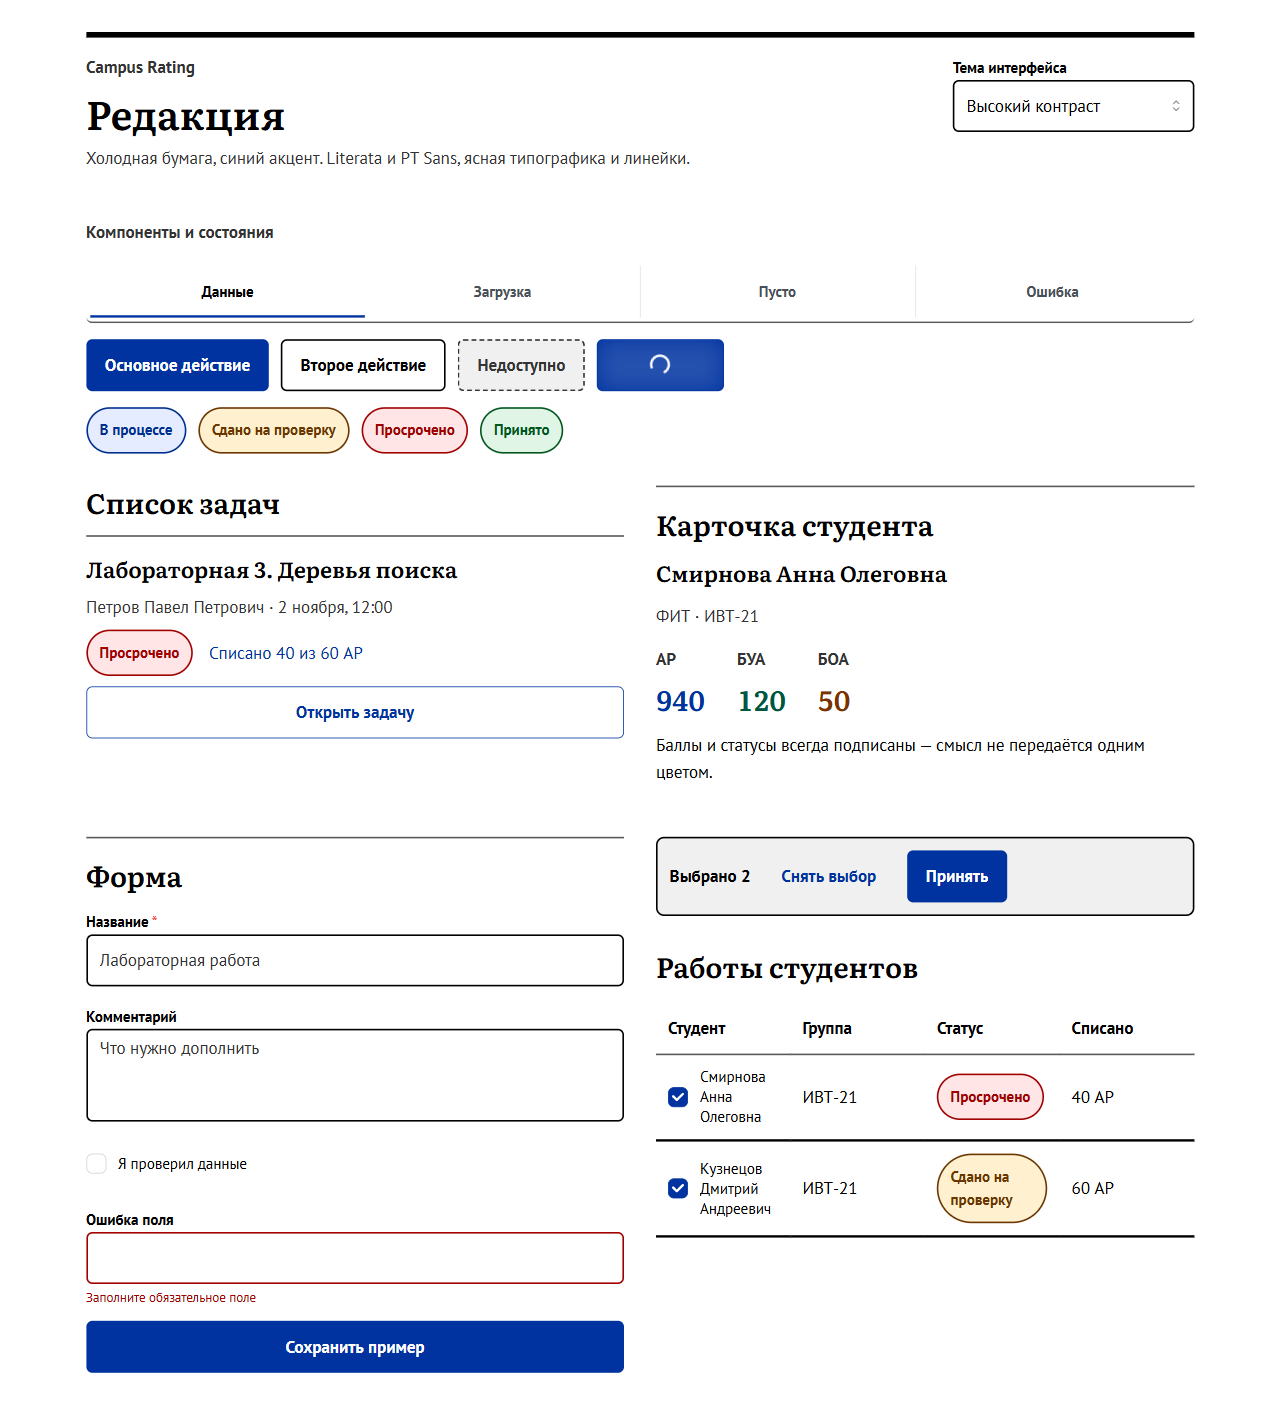
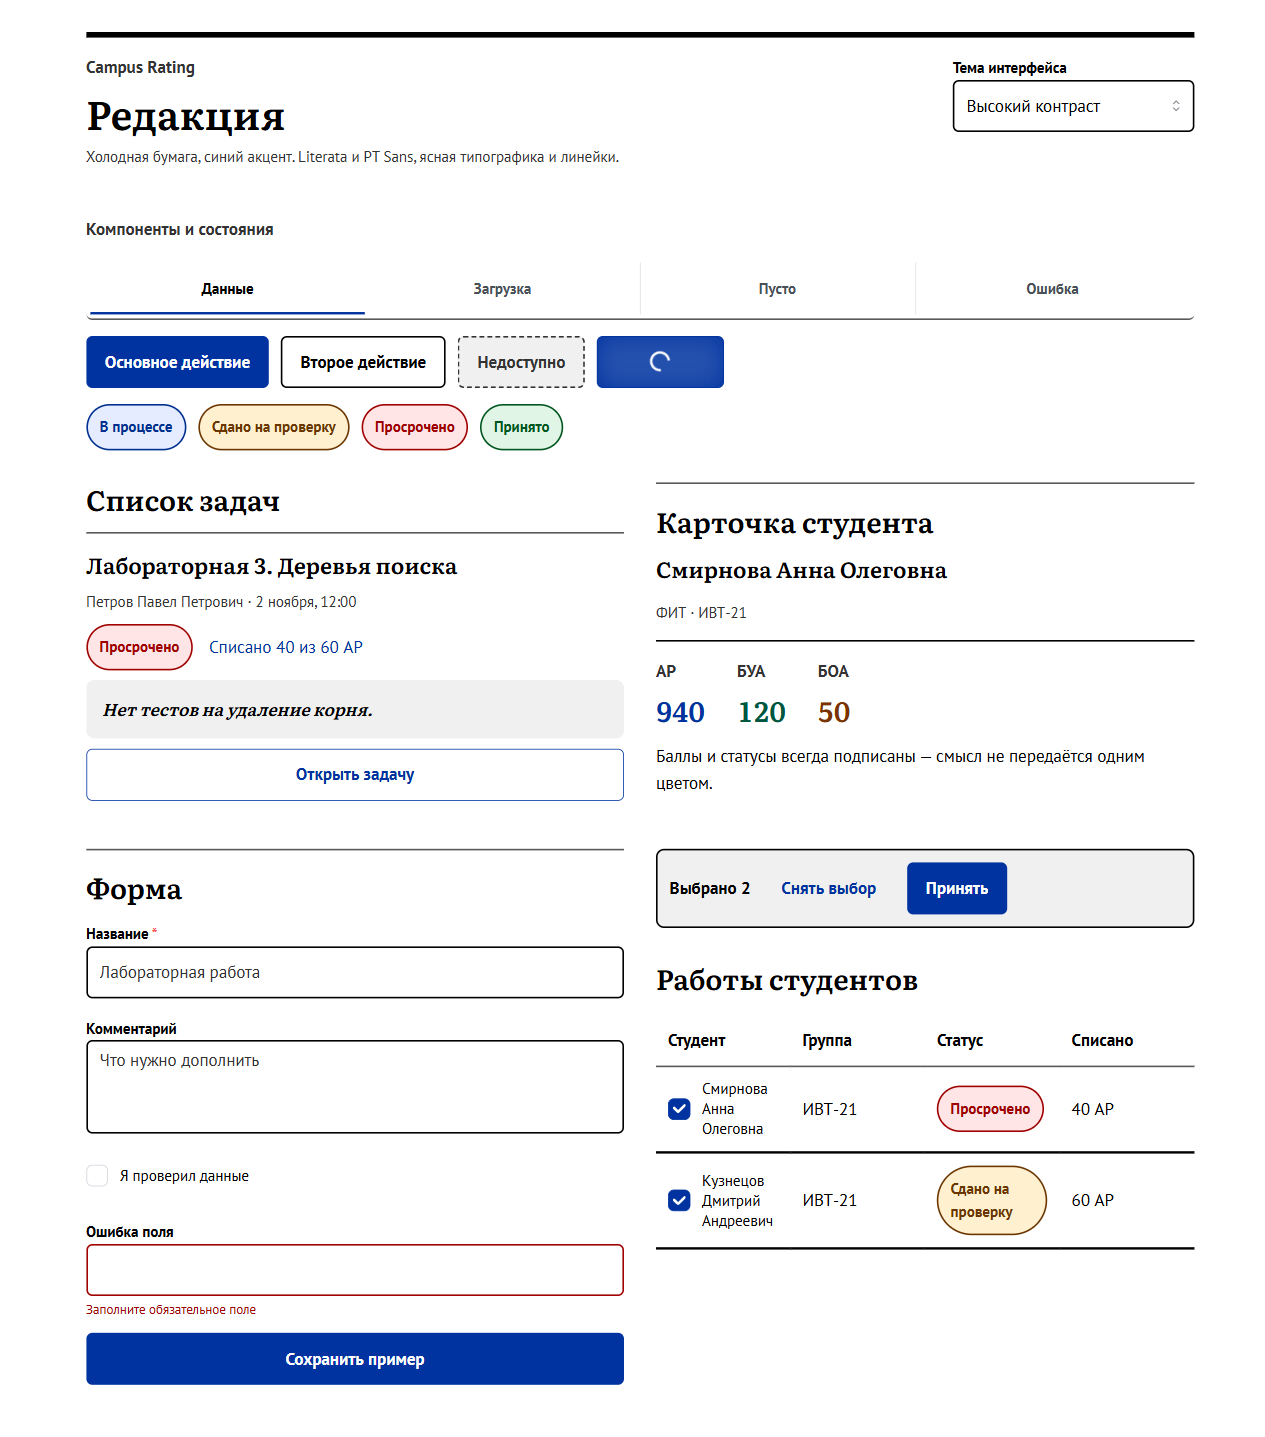
fix(frontend): align U21c dimensions with accepted ADR009
Match reference typography, checkbox and table sizes; add complete semantic tokens and return quote styling. Run real ESLint integration in Node instead of Vitest loader. Validation:4 Node+30 Vitest tests, lint/typecheck/build and browser360/1280 in three themes passed; screenshots refreshed. Refs: PR18, PR25, R40.

diff --git a/frontend/src/theme/theme.ts b/frontend/src/theme/theme.ts
@@ -5,17 +5,17 @@ const blue: MantineColorsTuple = ['#e8eefc', '#d6e2fc', '#bfd1fb', '#9bbcff', '#
 
 export const palettes = {
   light: { body: '#f5f6f8', surface: '#ffffff', text: '#161b22', muted: '#57606a', rule: '#d6dbe1', link: '#2450c4',
-    button: '#2450c4', buttonText: '#ffffff', selection: '#eef0f3', field: '#7d8590',
+    button: '#2450c4', buttonText: '#ffffff', selection: '#eef0f3', field: '#7d8590', track: '#e1e5ea', primarySoft: '#e8eefc',
     overdue: '#b42318', overdueBg: '#fdecea', accepted: '#18753c', acceptedBg: '#e6f4ea',
     submitted: '#8a4b00', submittedBg: '#fff3dc', progress: '#1d4fb8', progressBg: '#e8effc',
     ar: '#2450c4', bua: '#0b6e69', boa: '#a3480a' },
   dark: { body: '#0f1419', surface: '#161c23', text: '#e6edf3', muted: '#9da7b3', rule: '#2d3640', link: '#8fb1ff',
-    button: '#7aa2ff', buttonText: '#0b1530', selection: '#1e252e', field: '#6b7685',
+    button: '#7aa2ff', buttonText: '#0b1530', selection: '#1e252e', field: '#6b7685', track: '#2d3640', primarySoft: '#1a2540',
     overdue: '#ff9b8f', overdueBg: '#3a1d1b', accepted: '#7fd19b', acceptedBg: '#15301f',
     submitted: '#f0c27a', submittedBg: '#362a14', progress: '#a8c1ff', progressBg: '#1c2742',
     ar: '#8fb1ff', bua: '#5fd0c6', boa: '#f0a46b' },
   contrast: { body: '#ffffff', surface: '#ffffff', text: '#000000', muted: '#333333', rule: '#595959', link: '#0033a0',
-    button: '#0033a0', buttonText: '#ffffff', selection: '#f0f0f0', field: '#000000',
+    button: '#0033a0', buttonText: '#ffffff', selection: '#f0f0f0', field: '#000000', track: '#c4c4c4', primarySoft: '#e5ecff',
     overdue: '#a00000', overdueBg: '#ffe5e5', accepted: '#00561e', acceptedBg: '#e0f5e5',
     submitted: '#6b3600', submittedBg: '#fff0d0', progress: '#002f8f', progressBg: '#e5ecff',
     ar: '#0033a0', bua: '#00563f', boa: '#7a3300' },
@@ -24,6 +24,7 @@ export const palettes = {
 export const theme = createTheme({
   primaryColor: 'campus', primaryShade: 6, colors: { campus: blue },
   fontFamily: '"PT Sans", system-ui, sans-serif',
+  fontSizes: { xs: '0.6875rem', sm: '0.8125rem', md: '0.9375rem', lg: '1.0625rem', xl: '1.25rem' },
   headings: { fontFamily: '"Literata", Georgia, serif', fontWeight: '600',
     sizes: { h1: { fontSize: '2.5rem', lineHeight: '1.12' }, h2: { fontSize: '1.75rem', lineHeight: '1.2' } } },
   defaultRadius: 'sm', radius: { xs: '0.25rem', sm: '0.375rem', md: '0.5rem', lg: '0.625rem', xl: '0.75rem' },
@@ -47,16 +48,17 @@ export const theme = createTheme({
     SegmentedControl: SegmentedControl.extend({ styles: { root: { background: 'transparent', borderBottom: 'var(--cr-rule-width) solid var(--cr-rule)' },
       indicator: { background: 'transparent', boxShadow: 'none', borderBottom: '3px solid var(--cr-link)', borderRadius: 0 },
       label: { minHeight: 'var(--cr-touch-target)', display: 'flex', alignItems: 'center', justifyContent: 'center' } } }),
-    Checkbox: Checkbox.extend({ styles: { body: { minHeight: 'var(--cr-touch-target)', alignItems: 'center' },
+    Checkbox: Checkbox.extend({ vars: () => ({ root: { '--checkbox-size': 'var(--cr-checkbox-size)' } }),
+      styles: { body: { minHeight: 'var(--cr-touch-target)', alignItems: 'center' },
       label: { minHeight: 'var(--cr-touch-target)', display: 'flex', alignItems: 'center' } } }),
   },
 });
 
 function variables(p: typeof palettes.light) {
-  return { '--mantine-color-body': p.body, '--mantine-color-text': p.text,
+  return { '--mantine-color-body': p.body, '--mantine-color-text': p.text, '--cr-bg': p.body,
     '--cr-surface': p.surface, '--cr-text': p.text, '--cr-muted': p.muted, '--cr-rule': p.rule, '--cr-link': p.link,
     '--cr-button': p.button, '--cr-button-text': p.buttonText, '--cr-selection': p.selection,
-    '--cr-field': p.field,
+    '--cr-field': p.field, '--cr-track': p.track, '--cr-primary-soft': p.primarySoft,
     '--mantine-color-campus-filled': p.button, '--mantine-color-campus-filled-hover': p.button,
     '--cr-status-overdue': p.overdue, '--cr-status-overdue-bg': p.overdueBg,
     '--cr-status-accepted': p.accepted, '--cr-status-accepted-bg': p.acceptedBg,
@@ -67,12 +69,14 @@ function variables(p: typeof palettes.light) {
 
 export const cssVariablesResolver: CSSVariablesResolver = () => ({
   variables: { '--cr-touch-target': '44px', '--cr-rule-width': '1px', '--cr-motion-duration': '120ms',
-    '--cr-status-weight': '400', '--cr-status-border': '0px', '--cr-status-radius': '999px', '--cr-body-size': '15px', '--cr-selected-width': '2px' },
+    '--cr-status-weight': '400', '--cr-status-border': '0px', '--cr-status-radius': '999px', '--cr-body-size': '15px', '--cr-selected-width': '2px',
+    '--cr-checkbox-size': '18px', '--cr-row-height': '52px' },
   light: variables(palettes.light), dark: variables(palettes.dark),
 });
 
 export const contrastVariablesResolver: CSSVariablesResolver = () => ({
   variables: { '--cr-touch-target': '52px', '--cr-rule-width': '2px', '--cr-motion-duration': '120ms',
-    '--cr-status-weight': '700', '--cr-status-border': '2px', '--cr-status-radius': '999px', '--cr-body-size': '17px', '--cr-selected-width': '3px' },
+    '--cr-status-weight': '700', '--cr-status-border': '2px', '--cr-status-radius': '999px', '--cr-body-size': '17px', '--cr-selected-width': '3px',
+    '--cr-checkbox-size': '22px', '--cr-row-height': '60px' },
   light: variables(palettes.contrast), dark: variables(palettes.contrast),
 });

diff --git a/frontend/src/theme/theme.css b/frontend/src/theme/theme.css
@@ -8,10 +8,13 @@ a { color: var(--cr-link); }
 .cr-kicker { color: var(--cr-muted); font-weight: 700; }
 .cr-article { border-block-start: var(--cr-rule-width) solid var(--cr-rule); padding-block: var(--mantine-spacing-md); min-width: 0; }
 .cr-card { border-block-start: var(--cr-rule-width) solid var(--cr-rule); padding-block: var(--mantine-spacing-lg); }
-.cr-caption { color: var(--cr-muted); }
-.cr-number { font-family: var(--mantine-font-family-headings); font-variant-numeric: tabular-nums; }
+.cr-caption { color: var(--cr-muted); font-size: var(--mantine-font-size-sm); }
+.cr-number { font-family: var(--mantine-font-family-headings); font-variant-numeric: lining-nums tabular-nums; }
+.cr-balances { border-block-start: var(--cr-rule-width) solid var(--cr-text); padding-block-start: var(--mantine-spacing-md); }
+.cr-return-comment { margin: 0; padding: var(--mantine-spacing-md); background: var(--cr-selection); font-family: var(--mantine-font-family-headings); font-style: italic; border-radius: var(--mantine-radius-md); }
 .cr-template-grid { display: grid; grid-template-columns: repeat(2, minmax(0, 1fr)); gap: var(--mantine-spacing-xl); }
 .cr-table { width: 100%; table-layout: fixed; border-collapse: collapse; }
+.cr-table tbody tr { height: var(--cr-row-height); }
 .cr-table th, .cr-table td { overflow-wrap: anywhere; padding: var(--mantine-spacing-sm); border-block-end: var(--cr-rule-width) solid var(--cr-rule); text-align: start; }
 .cr-table caption { text-align: start; font-family: var(--mantine-font-family-headings); font-size: var(--mantine-h2-font-size); padding-block: var(--mantine-spacing-md); }
 .cr-status { display: inline-flex; padding: var(--mantine-spacing-xs) var(--mantine-spacing-sm); border-radius: var(--cr-status-radius); font-weight: var(--cr-status-weight); border: var(--cr-status-border) solid currentColor; font-size: var(--mantine-font-size-sm); }
@@ -35,6 +38,7 @@ html[data-theme='high-contrast'] a { text-decoration: underline; }
   .cr-table thead { position: absolute; width: 1px; height: 1px; overflow: hidden; clip-path: inset(50%); }
   .cr-table, .cr-table tbody, .cr-table tr { display: block; width: 100%; }
   .cr-table tr { padding-block: var(--mantine-spacing-sm); border-block-end: var(--cr-rule-width) solid var(--cr-rule); }
+  .cr-table tbody tr { height: auto; min-height: var(--cr-row-height); }
   .cr-table td { display: grid; grid-template-columns: minmax(0, 1fr) minmax(0, 2fr); gap: var(--mantine-spacing-sm); border: 0; }
   .cr-table td::before { content: attr(data-label); color: var(--cr-muted); }
 }

diff --git a/frontend/src/features/styleguide/StyleguidePage.tsx b/frontend/src/features/styleguide/StyleguidePage.tsx
@@ -34,9 +34,10 @@ export function StyleguidePage() {
       <ListLayout title="Список задач" state={state} items={tasks} keyForItem={(item) => item.id} renderItem={(item) => <Stack gap="xs">
         <Title order={3}>{item.title}</Title><Text className="cr-caption">{item.teacher} · {item.deadline}</Text>
         <Group><span className="cr-status cr-status-overdue">Просрочено</span><Text className="cr-ar">Списано 40 из 60 АР</Text></Group>
+        <blockquote className="cr-return-comment" aria-label="Комментарий возврата">Нет тестов на удаление корня.</blockquote>
         <Button variant="outline">Открыть задачу</Button></Stack>} />
       <CardLayout title="Карточка студента"><Stack><Title order={3}>Смирнова Анна Олеговна</Title><Text className="cr-caption">ФИТ · ИВТ-21</Text>
-        <Group gap="xl"><Stack gap="xs"><Text className="cr-kicker">АР</Text><Title order={2} className="cr-number cr-ar">940</Title></Stack>
+        <Group gap="xl" className="cr-balances"><Stack gap="xs"><Text className="cr-kicker">АР</Text><Title order={2} className="cr-number cr-ar">940</Title></Stack>
           <Stack gap="xs"><Text className="cr-kicker">БУА</Text><Title order={2} className="cr-number cr-bua">120</Title></Stack>
           <Stack gap="xs"><Text className="cr-kicker">БОА</Text><Title order={2} className="cr-number cr-boa">50</Title></Stack></Group>
         <Text>Баллы и статусы всегда подписаны — смысл не передаётся одним цветом.</Text></Stack></CardLayout>

diff --git a/docs/agent-log.md b/docs/agent-log.md
@@ -559,3 +559,14 @@
 - **Урок:** нового нет; проверены реальные негативные мутации, а не только отчёт автора.
 - **Кругов ревью:** 1 независимый, плюс повтор после интеграции.
 - **Коммит / PR:** PR21; интеграционный commit включает только принятое main, generated и эту запись.
+
+### 2026-11-10 — U21c: сверка с принятым PR18
+
+- **Кто / агент / модель:** Максим / Codex / GPT-6, автор реализации PR25.
+- **Поручение:** подтвердить совпадение с финальным стилем PR18 и делать дальнейший frontend по нему.
+- **Результат с доказательствами:** PR18 принят и слит отдельно;36/36 core-токенов совпали с таблицей README. Исправлены фактические размеры: normal текст15/подписи13, checkbox18; high contrast17/15, checkbox22; строки52/60. Добавлены недостающие track/primary-soft и оформление цитаты возврата. Браузер на360/1280 подтвердил кнопки44/52, checkbox18/22, подписи13/15 и отсутствие горизонтальной прокрутки во всех трёх темах; шесть screenshots обновлены. check:4 Node+30 Vitest passed, lint/typecheck прошли; build passed. frontend/AGENTS фиксирует принятый README как точный ориентир для новых экранов.
+- **Не проверено:** независимый approve PR25 и будущие продуктовые экраны.
+- **Ошибка агента:** lint-интеграция повторно зависла при загрузке реального ESLint-конфига из Vitest, увеличение лимита5→15с не решило причину → тот же вызов вне Vitest отработал за1.2с → четыре проверки реального конфига перенесены в отдельный Node test runner перед Vitest. Assertions и запрет литералов сохранены; timeout не увеличивался повторно.
+- **Урок:** новое общее правило не добавляется; конкретный случай и проверка причины зафиксированы здесь.
+- **Кругов ревью:** авторская сверка с принятым эталоном; независимое ревью реализации ещё нужно.
+- **Коммит / PR:** обновление PR25; новый frontend/scripts/theme-lint.node-test.mjs — вспомогательный файл реальной lint-интеграции, заменяет старый Vitest-тест без ослабления сценариев.
